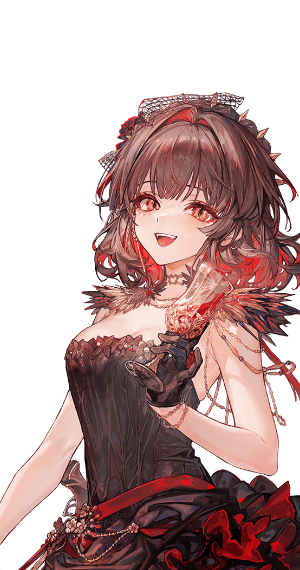
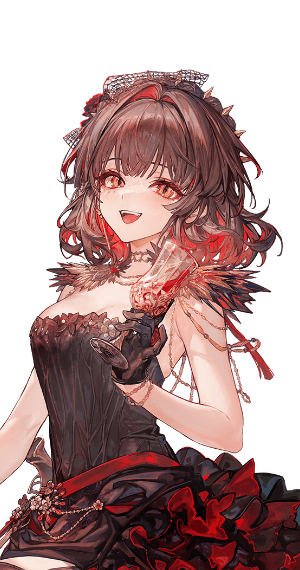
실버 팰리스 카드: 신시아 2세·붉은 장미 얼굴이 오른쪽으로 치우쳐 있던 것 가운데로 이동 + 눈높이 위 1/3로 맞춤 (v20261104182052)

diff --git a/index.html b/index.html
@@ -4,7 +4,7 @@
     <meta charset="UTF-8">
     <meta name="viewport" content="width=device-width, initial-scale=1.0">
     <title>게임 컨트롤 센터</title>
-    <link rel="stylesheet" href="style.css?v=20261104181726">
+    <link rel="stylesheet" href="style.css?v=20261104182052">
   </head>
   <body>
     <div class="app-layout">
@@ -134,8 +134,8 @@
 
     <!-- Scripts: supabase auth first, then engine, then app -->
     <script src="https://cdn.jsdelivr.net/npm/@supabase/supabase-js@2.118.0"></script>
-    <script src="auth.js?v=20261104181726"></script>
-    <script src="evaluationEngine.js?v=20261104181726"></script>
-    <script src="app.js?v=20261104181726"></script>
+    <script src="auth.js?v=20261104182052"></script>
+    <script src="evaluationEngine.js?v=20261104182052"></script>
+    <script src="app.js?v=20261104182052"></script>
   </body>
 </html>
